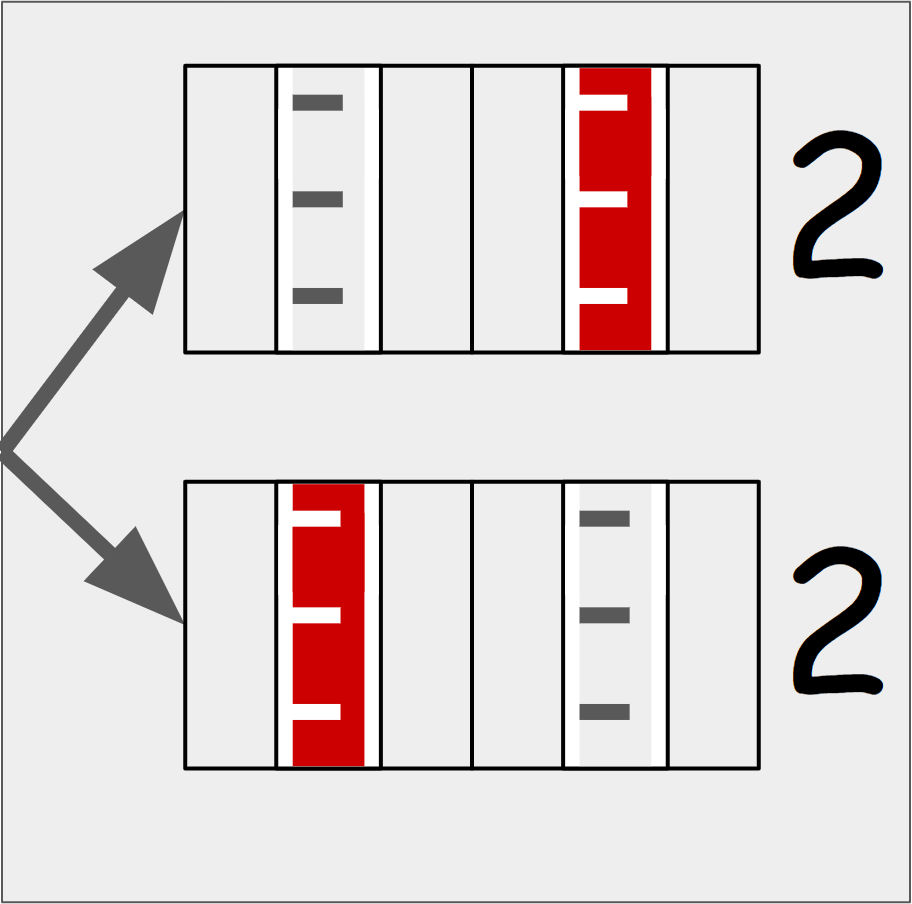
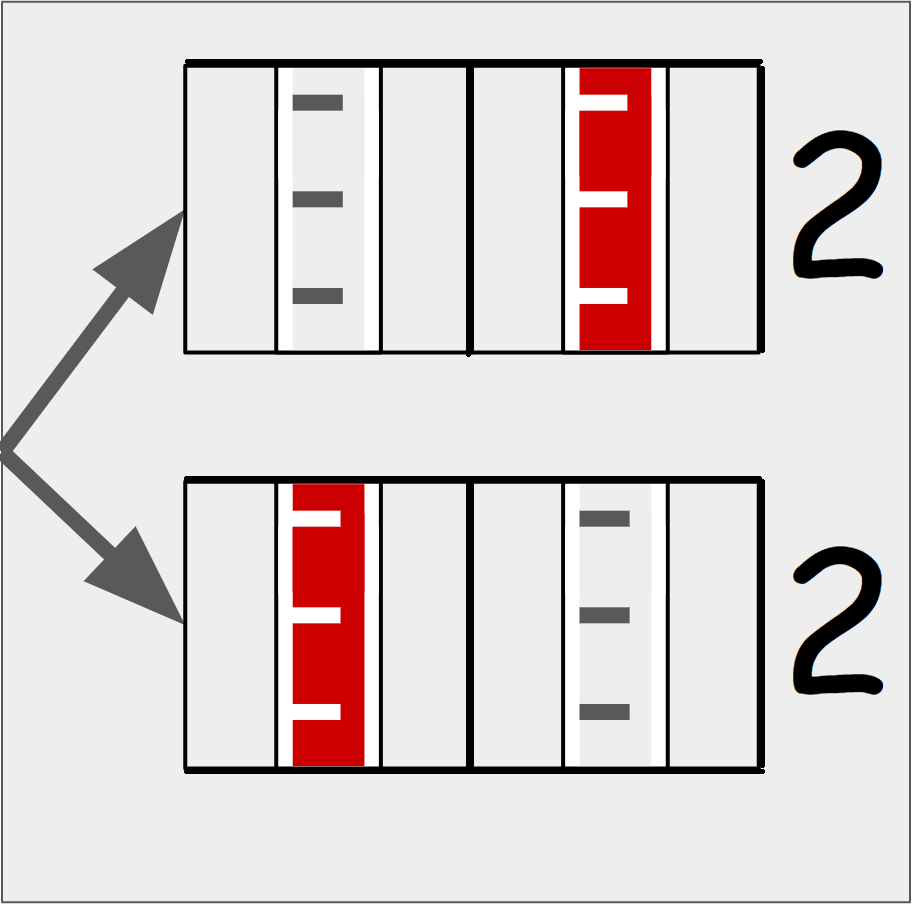
Final rule images

Changed region(s): [[0.2149, 0.5265, 0.8596, 0.8673], [0.2149, 0.0619, 0.8596, 0.4027]]

diff --git a/src/main/java/edu/rpi/legup/puzzle/thermometer/rules/ThermometerTooLargeDirectRule.java b/src/main/java/edu/rpi/legup/puzzle/thermometer/rules/ThermometerTooLargeDirectRule.java
@@ -17,9 +17,9 @@ public class ThermometerTooLargeDirectRule extends DirectRule{
     public ThermometerTooLargeDirectRule() {
         super(
                 "THERM-BASC-0006",
-                "Minimum Fill",
-                "Some thermometers must be filled a minimum amount to satisfy requirement",
-                "edu/rpi/legup/images/thermometer/MinimumFill.png");
+                "Thermometer Too Large",
+                "If thermometer is larger than required mercury, some of it must be blocked",
+                "edu/rpi/legup/images/thermometer/ThermometerTooLarge.png");
     }
 
     @Override

diff --git a/src/main/java/edu/rpi/legup/puzzle/thermometer/rules/TooFewMercuryContradiction.java b/src/main/java/edu/rpi/legup/puzzle/thermometer/rules/TooFewMercuryContradiction.java
@@ -14,8 +14,8 @@ public class TooFewMercuryContradiction extends ContradictionRule{
 
     public TooFewMercuryContradiction(){
         super("THERM-CONT-0002",
-                "Too Many Mercury",
-                "More mercury in column/row than target",
+                "Too Few Mercury",
+                "Not enough mercury in column/row to fufill requirement",
                 "edu/rpi/legup/images/thermometer/NotEnoughMercury.png");
     }
 
